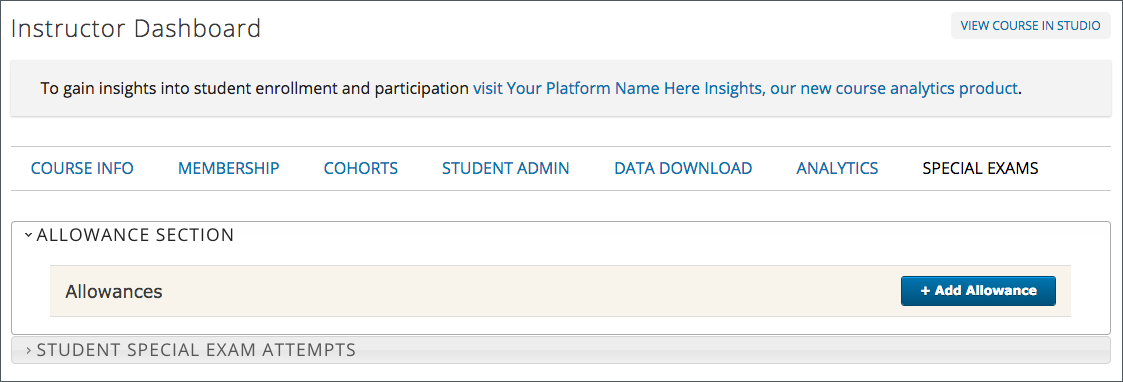
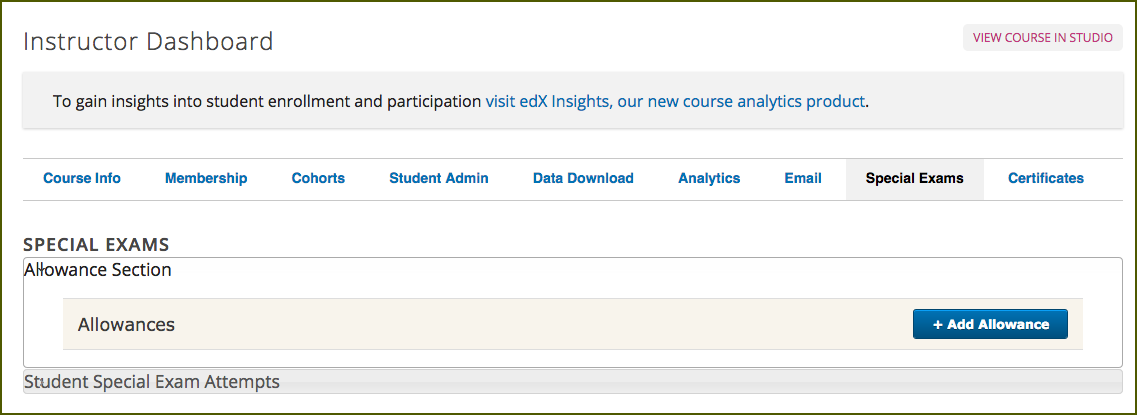
DOC-2654 - timed exam add allowance UI changes

diff --git a/en_us/shared/course_features/timed_exams.rst b/en_us/shared/course_features/timed_exams.rst
@@ -40,7 +40,7 @@ To better understand the learner's experience of timed exams, see
 
 .. only:: Partners
 
-  Timed exams are different than :ref:`proctored exams<CA_ProctoredExams>`.
+  Timed exams are different from :ref:`proctored exams<CA_ProctoredExams>`.
   While both types of exams have a time limit, learners are monitored only
   during proctored exams.
 
@@ -131,7 +131,7 @@ extra time to complete a timed exam.
 
    .. image:: ../../../shared/images/inst_dash_special_exams.png
     :alt: The Allowance Section in the Instructor Dashboard.
-    :width: 600
+    :width: 300
 
 #. Select **Add Allowance**.
 
@@ -143,8 +143,7 @@ extra time to complete a timed exam.
 
 #. For **Allowance Type**, select **Additional Time (minutes)**.
 
-#. In the **Value** field, enter the number of extra minutes that you are
-   granting the learner.
+#. In the **Additional Time** field, enter the number of extra minutes that you are granting the learner.
 
    .. note:: Enter a whole number greater than 0.
 
